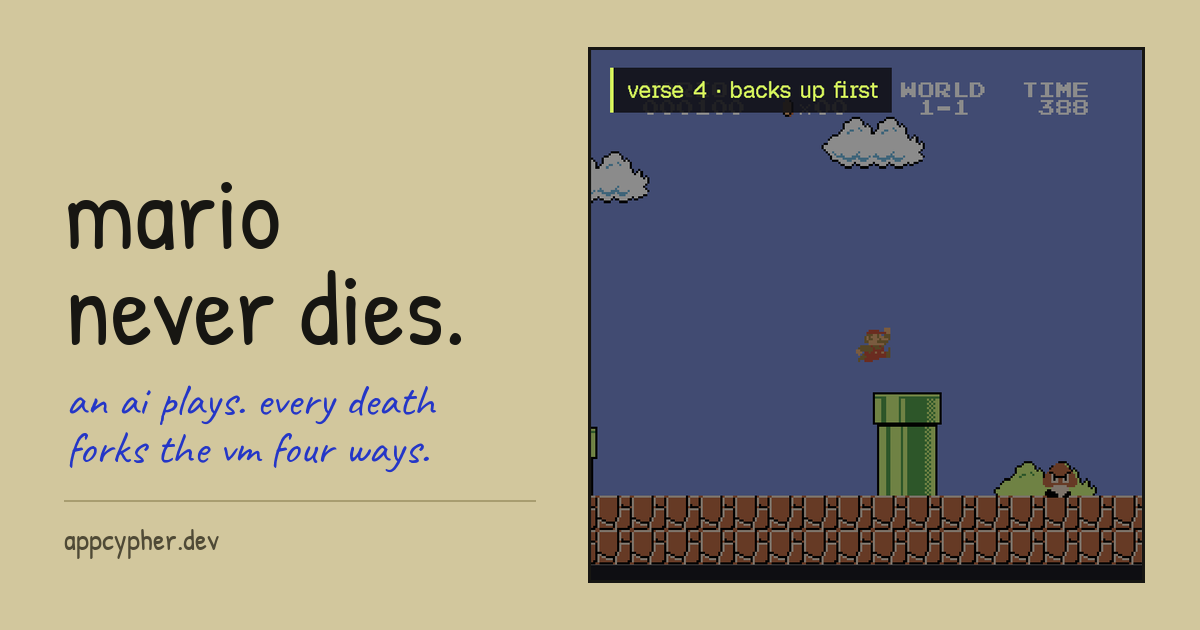
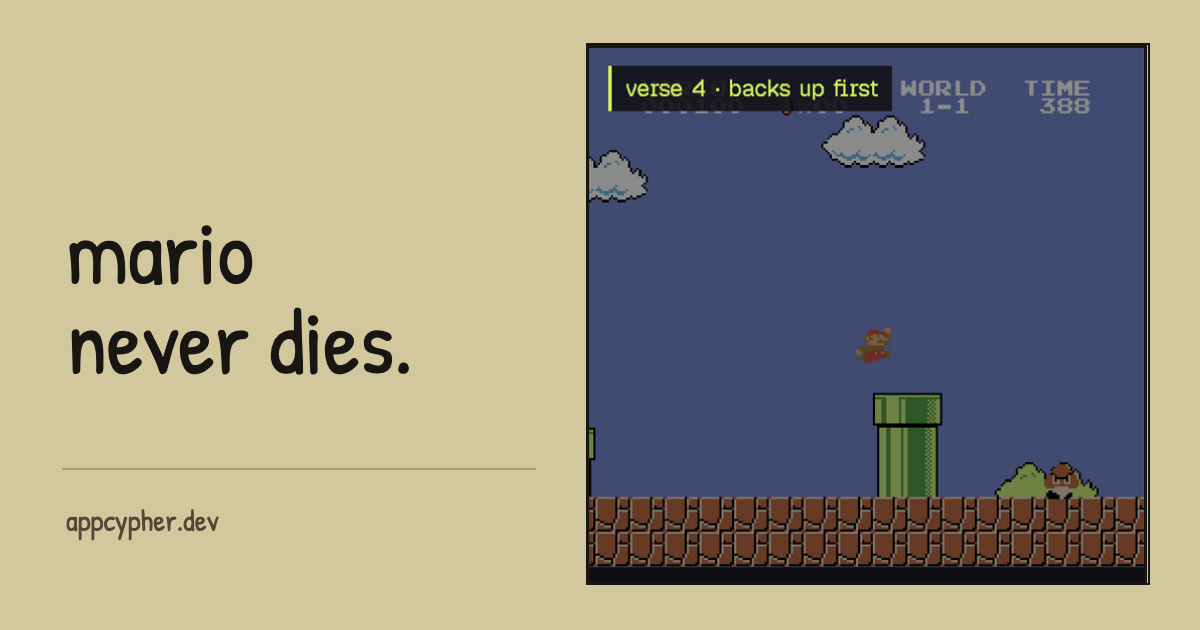
fix(og): drop the subtitle from the Mario card
The 1200x630 card had a second line baked into the pixels. It is now rebuilt from tools/og/mario-never-dies.html (title, rule, domain, the same game tile) with headless Chrome, so the card is reproducible and the description lives in og:description only.

diff --git a/tools/og/mario-never-dies.html b/tools/og/mario-never-dies.html
@@ -1,0 +1,21 @@
+<!doctype html>
+<html lang="en"><head><meta charset="utf-8">
+<!-- OpenGraph card, 1200×630. Render with headless Chrome from the repo root:
+"/Applications/Google Chrome.app/Contents/MacOS/Google Chrome" --headless=new --disable-gpu --hide-scrollbars --no-first-run --virtual-time-budget=6000 --window-size=1200,630 --screenshot=assets/posts/mario-never-dies/og-card.png tools/og/mario-never-dies.html -->
+<link href="https://fonts.googleapis.com/css2?family=Patrick+Hand&display=block" rel="stylesheet">
+<style>
+*{margin:0;padding:0;box-sizing:border-box}
+html,body{width:1200px;height:630px;overflow:hidden;background:#d2c79d;font-family:'Patrick Hand',cursive;color:#171612}
+.card{position:relative;width:1200px;height:630px}
+h1{position:absolute;left:66px;top:206px;font-size:92px;line-height:.98;font-weight:400;letter-spacing:-.01em;width:470px}
+.rule{position:absolute;left:62px;top:468px;width:474px;height:1.5px;background:#a89d70}
+.site{position:absolute;left:66px;top:500px;font-size:30px;color:#4f4a36}
+.tile{position:absolute;left:586px;top:43px;width:564px;height:542px;border:2px solid #17160f;background:#17160f;overflow:hidden}
+.tile img{display:block;width:560px;height:538px;object-fit:cover}
+</style></head>
+<body><div class="card">
+<h1>mario<br>never dies.</h1>
+<div class="rule"></div>
+<div class="site">appcypher.dev</div>
+<div class="tile"><img src="mario-tile.png" alt=""></div>
+</div></body></html>

diff --git a/WRITING.md b/WRITING.md
@@ -78,6 +78,16 @@ The site is called Cypher Rants; the author is Stephen Akinyemi (appcypher), who
 
 Do not invent facts, biography, quotes, benchmarks or events. If a post needs a number, the author supplies it or the post says it doesn't have one. If a post is about a system, link the code.
 
+## OpenGraph card
+
+A post can carry `image: /assets/posts/<slug>/og-card.png` (1200×630) for link previews. Cards are plain HTML in `tools/og/<slug>.html` — khaki, the title in Patrick Hand, a rule, `appcypher.dev`, one image on the right — rendered with headless Chrome:
+
+```sh
+"/Applications/Google Chrome.app/Contents/MacOS/Google Chrome" --headless=new --disable-gpu --hide-scrollbars --no-first-run --virtual-time-budget=6000 --window-size=1200,630 --screenshot=assets/posts/<slug>/og-card.png "file://$PWD/tools/og/<slug>.html"
+```
+
+Title only on the card; the description belongs in `og:description`, not baked into pixels.
+
 ## Publishing checklist
 
 1. Build with drafts and look at it: `GEM_HOME="$PWD/vendor/gems" GEM_PATH="$PWD/vendor/gems" JEKYLL_NO_BUNDLER_REQUIRE=true /opt/homebrew/opt/ruby/bin/ruby vendor/gems/bin/jekyll build --destination preview --strict_front_matter --drafts` then serve `preview/` (e.g. `python3 -m http.server -d preview 4000`). `bundle exec jekyll serve --drafts` works if Bundler is set up.
